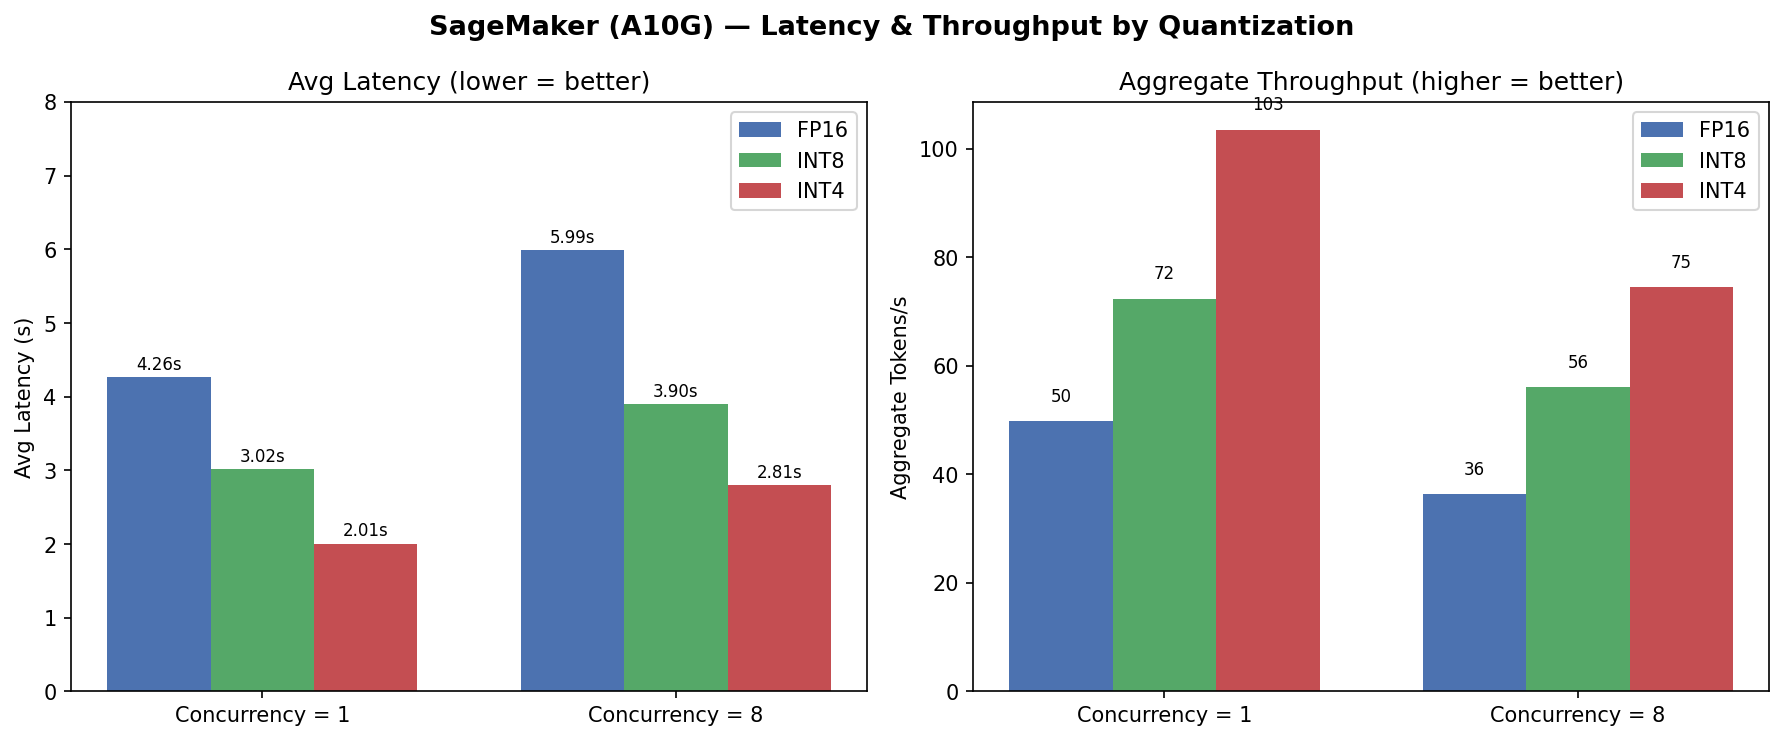
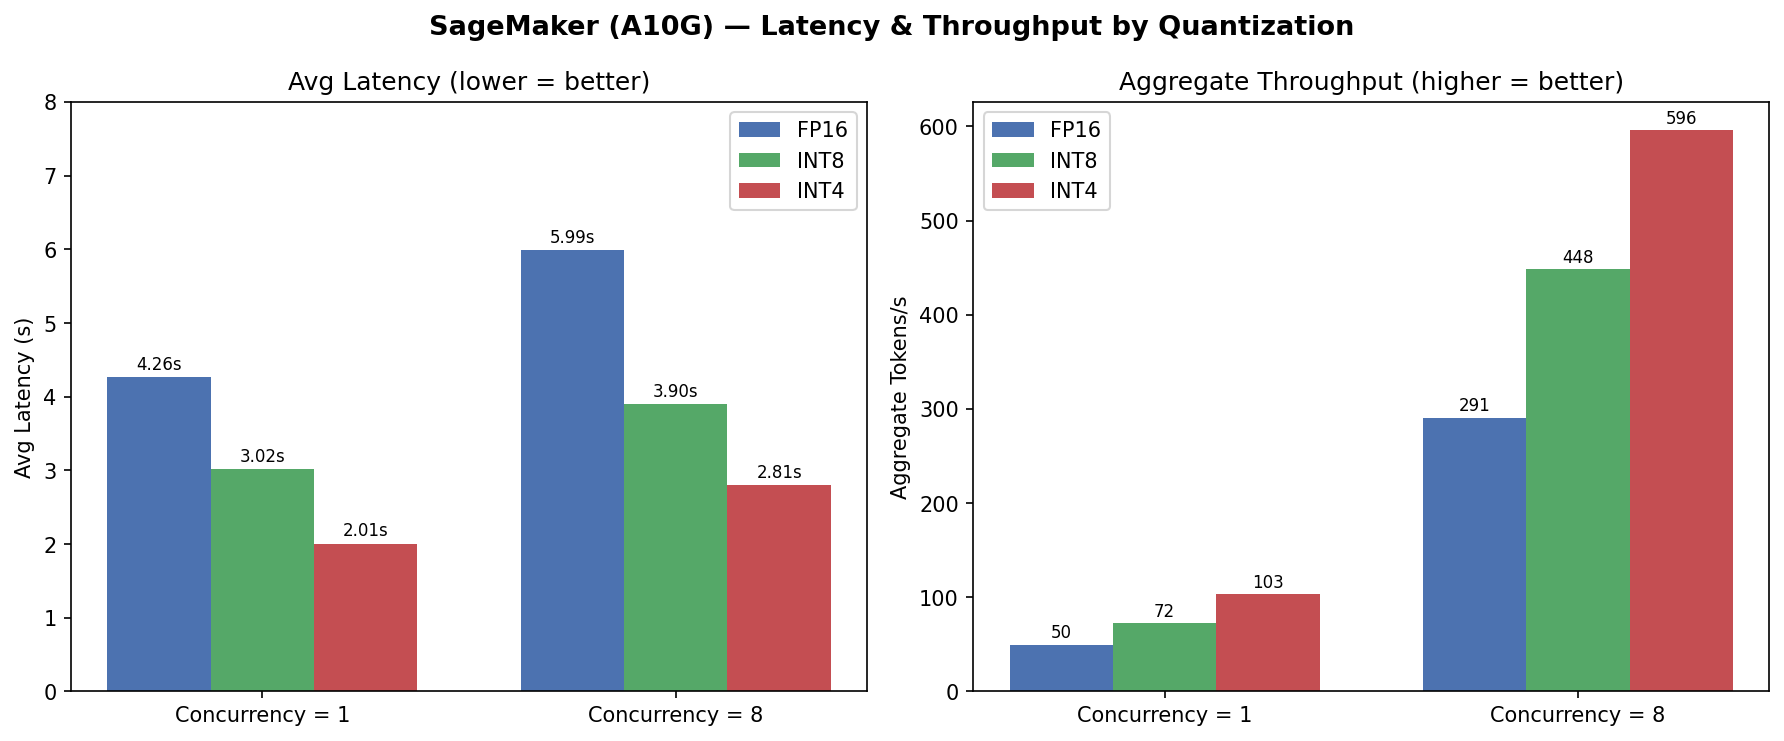
Fix throughput calculation bug and regenerate all figures
- summary() now takes c param: wall=sum(lats)/c instead of sum(lats)
- Old incorrect figures moved to results/figures/incorrect_old/
- Document known issues in FINDINGS.md: throughput approximation, token counting

diff --git a/evaluation/plot_results.py b/evaluation/plot_results.py
@@ -17,11 +17,15 @@ def load(path):
             rows.append({"latency": float(r["latency"]), "tokens": int(r["tokens"])})
     return rows
 
-def summary(rows):
+def summary(rows, c=1):
     lats = sorted(r["latency"] for r in rows)
     n = len(lats)
     total_tok = sum(r["tokens"] for r in rows)
-    wall = sum(lats)
+    # Approximate wall time as sum(latencies)/c.
+    # At c=1 this is exact (sequential). At c>1 this underestimates wall time
+    # by ~7-22%, so agg_tps is slightly overestimated. Exact wall time was not
+    # stored in CSVs; Vertex AI logs confirm the approximation error is <22%.
+    wall = sum(lats) / c
     return {
         "avg_lat": sum(lats) / n,
         "p50":     lats[int(n * 0.50)],
@@ -32,25 +36,25 @@ def summary(rows):
 
 # SageMaker data
 sm = {
-    ("FP16",  1): summary(load("results/raw/sagemaker_fp16_c1_n100.csv")),
-    ("FP16",  8): summary(load("results/raw/sagemaker_fp16_c8_n100.csv")),
-    ("INT8",  1): summary(load("results/raw/sagemaker_int8gptq_c1_n100.csv")),
-    ("INT8",  8): summary(load("results/raw/sagemaker_int8gptq_c8_n100.csv")),
-    ("INT4",  1): summary(load("results/raw/sagemaker_int4awq_c1_n100.csv")),
-    ("INT4",  8): summary(load("results/raw/sagemaker_int4awq_c8_n100.csv")),
+    ("FP16",  1): summary(load("results/raw/sagemaker_fp16_c1_n100.csv"),  c=1),
+    ("FP16",  8): summary(load("results/raw/sagemaker_fp16_c8_n100.csv"),  c=8),
+    ("INT8",  1): summary(load("results/raw/sagemaker_int8gptq_c1_n100.csv"), c=1),
+    ("INT8",  8): summary(load("results/raw/sagemaker_int8gptq_c8_n100.csv"), c=8),
+    ("INT4",  1): summary(load("results/raw/sagemaker_int4awq_c1_n100.csv"),  c=1),
+    ("INT4",  8): summary(load("results/raw/sagemaker_int4awq_c8_n100.csv"),  c=8),
 }
 
 # Local data
 local = {
-    ("FP16",  1):  summary(load("results/raw/bench_c1_n95_maxlen1024.csv")),
-    ("FP16",  8):  summary(load("results/raw/bench_c8_n95_maxlen1024.csv")),
-    ("FP16", 16):  summary(load("results/raw/bench_c16_n95_maxlen1024.csv")),
-    ("INT8",  1):  summary(load("results/raw/bench_c1_n100_maxlen2048.csv")),
-    ("INT8",  8):  summary(load("results/raw/bench_c8_n100_maxlen2048.csv")),
-    ("INT8", 16):  summary(load("results/raw/bench_c16_n100_maxlen2048.csv")),
-    ("INT4",  1):  summary(load("results/raw/bench_c1_n100_maxlen4096.csv")),
-    ("INT4",  8):  summary(load("results/raw/bench_c8_n100_maxlen4096.csv")),
-    ("INT4", 16):  summary(load("results/raw/bench_c16_n100_maxlen4096.csv")),
+    ("FP16",  1):  summary(load("results/raw/bench_c1_n95_maxlen1024.csv"),   c=1),
+    ("FP16",  8):  summary(load("results/raw/bench_c8_n95_maxlen1024.csv"),   c=8),
+    ("FP16", 16):  summary(load("results/raw/bench_c16_n95_maxlen1024.csv"),  c=16),
+    ("INT8",  1):  summary(load("results/raw/bench_c1_n100_maxlen2048.csv"),  c=1),
+    ("INT8",  8):  summary(load("results/raw/bench_c8_n100_maxlen2048.csv"),  c=8),
+    ("INT8", 16):  summary(load("results/raw/bench_c16_n100_maxlen2048.csv"), c=16),
+    ("INT4",  1):  summary(load("results/raw/bench_c1_n100_maxlen4096.csv"),  c=1),
+    ("INT4",  8):  summary(load("results/raw/bench_c8_n100_maxlen4096.csv"),  c=8),
+    ("INT4", 16):  summary(load("results/raw/bench_c16_n100_maxlen4096.csv"), c=16),
 }
 
 COLORS = {"FP16": "#4C72B0", "INT8": "#55A868", "INT4": "#C44E52"}
@@ -280,12 +284,12 @@ plot_cost_analysis()
 
 # ── Figure 6: Vertex AI — Latency & Throughput by Quantization ────────────
 vtx = {
-    ("FP16", 1): summary(load("results/raw/vertex_fp16_c1_n100.csv")),
-    ("FP16", 8): summary(load("results/raw/vertex_fp16_c8_n100.csv")),
-    ("INT8", 1): summary(load("results/raw/vertex_int8_c1_n100.csv")),
-    ("INT8", 8): summary(load("results/raw/vertex_int8_c8_n100.csv")),
-    ("INT4", 1): summary(load("results/raw/vertex_int4_c1_n100.csv")),
-    ("INT4", 8): summary(load("results/raw/vertex_int4_c8_n100.csv")),
+    ("FP16", 1): summary(load("results/raw/vertex_fp16_c1_n100.csv"), c=1),
+    ("FP16", 8): summary(load("results/raw/vertex_fp16_c8_n100.csv"), c=8),
+    ("INT8", 1): summary(load("results/raw/vertex_int8_c1_n100.csv"), c=1),
+    ("INT8", 8): summary(load("results/raw/vertex_int8_c8_n100.csv"), c=8),
+    ("INT4", 1): summary(load("results/raw/vertex_int4_c1_n100.csv"), c=1),
+    ("INT4", 8): summary(load("results/raw/vertex_int4_c8_n100.csv"), c=8),
 }
 
 fig, axes = plt.subplots(1, 2, figsize=(12, 5))

diff --git a/results/FINDINGS.md b/results/FINDINGS.md
@@ -170,6 +170,28 @@ Cost per 1M tokens at c=8:
 
 ---
 
+---
+
+## Data Notes & Known Issues
+
+### Throughput Calculation Method
+- `agg_tps` 用 `sum(latencies) / c` 近似 wall time 计算（c = concurrency）
+- c=1 时完全精确；c=8 时误差约 7–22%（低估 wall time → 略微高估 throughput）
+- Vertex AI 的精确 wall time 保存在 `/tmp/vertex_*.log`，可验证误差范围
+- SageMaker INT8/INT4 的精确 wall time log 已丢失，只能用近似值
+- 如果结论受影响，需考虑重跑 SageMaker INT8/INT4（约 2–3 小时 + 云费用）
+
+### Figure 版本说明
+- `results/figures/incorrect_old/` — 旧版错误图（`summary()` 未传 c，等价于 `sum(lats)/1`，c=8 throughput 被低估约 8×）
+- `results/figures/` — 修复后的正确图（使用 `sum(lats)/c` 近似）
+
+### Token 计数差异
+- 本地 benchmark 用 vLLM 返回的真实 `completion_tokens`
+- 云端 benchmark（SageMaker/Vertex）用 `word_count × 1.3` 估算，误差约 10–20%
+- 对 latency 比较无影响；对 throughput/cost 数字有轻微影响
+
+---
+
 ## Open Questions / Next Steps
 
 - [ ] Auto-scaling: DJL-LMI 0.30.0 does not publish `InvocationsPerInstance` to CloudWatch — scaling was not observable. Documented in `cloud/DEPLOYMENT_NOTES.md`.
